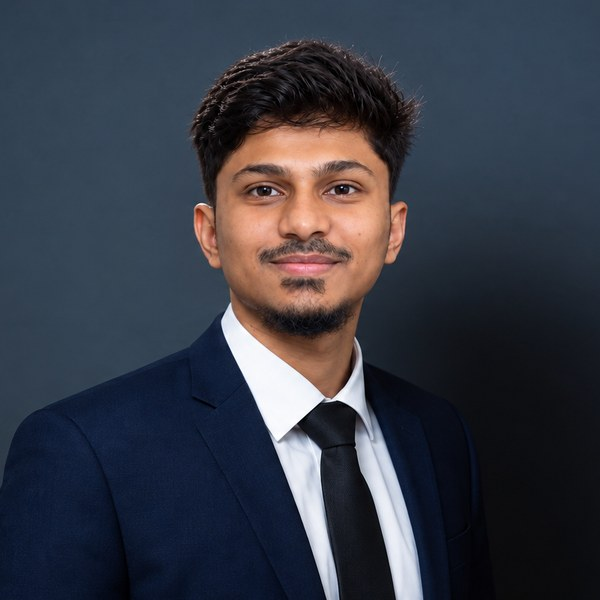
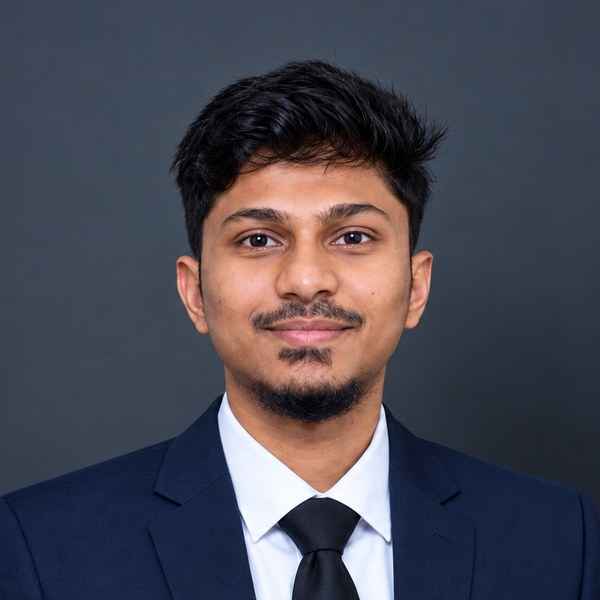
New profile photo; slightly faster background drift
Claude-Session: https://claude.ai/code/session_01EycHoazuajFt61XxVs3uKu

diff --git a/hero-bg.js b/hero-bg.js
@@ -7,6 +7,7 @@
   var ctx = canvas.getContext('2d');
   var reduce = window.matchMedia('(prefers-reduced-motion: reduce)').matches;
   var dpr = Math.min(window.devicePixelRatio || 1, 2);
+  var SPEED = 1.6;   // drift speed multiplier (1 = original pace)
   var W = 0, H = 0, stones = [], sand = [], voids = [], colors = {}, running = false, visible = true, raf = 0;
 
   function hexToRgb(h){
@@ -36,7 +37,7 @@
       pts.push([Math.cos(ang) * rr, Math.sin(ang) * rr * rand(0.7, 1)]);
     }
     return { x: rand(0, W), y: rand(0, H), r: r, pts: pts, rot: rand(0, Math.PI * 2),
-             vr: rand(-0.0012, 0.0012), vx: rand(-0.09, 0.09), vy: rand(-0.06, 0.06),
+             vr: rand(-0.0012, 0.0012) * SPEED, vx: rand(-0.09, 0.09) * SPEED, vy: rand(-0.06, 0.06) * SPEED,
              fill: rand(0.045, 0.1), edge: rand(0.08, 0.16), accent: Math.random() < 0.12 };
   }
   function build(){
@@ -44,8 +45,8 @@
     stones = []; sand = []; voids = [];
     var ns = Math.round(area / 11000), ng = Math.round(area / 1400), nv = Math.round(area / 60000);
     for(var i = 0; i < ns; i++) stones.push(makeStone());
-    for(i = 0; i < ng; i++) sand.push({ x: rand(0, W), y: rand(0, H), r: rand(0.5, 1.6), a: rand(0.08, 0.2), vx: rand(-0.05, 0.05), vy: rand(-0.04, 0.04) });
-    for(i = 0; i < nv; i++) voids.push({ x: rand(0, W), y: rand(0, H), r: rand(2.5, 6), vx: rand(-0.05, 0.05), vy: rand(-0.04, 0.04) });
+    for(i = 0; i < ng; i++) sand.push({ x: rand(0, W), y: rand(0, H), r: rand(0.5, 1.6), a: rand(0.08, 0.2), vx: rand(-0.05, 0.05) * SPEED, vy: rand(-0.04, 0.04) * SPEED });
+    for(i = 0; i < nv; i++) voids.push({ x: rand(0, W), y: rand(0, H), r: rand(2.5, 6), vx: rand(-0.05, 0.05) * SPEED, vy: rand(-0.04, 0.04) * SPEED });
   }
   function resize(){
     var rect = hero.getBoundingClientRect();

diff --git a/index.html b/index.html
@@ -121,7 +121,7 @@
         <div class="identity reveal" style="--i:0">
           <div class="photo-frame">
             <span class="initials" aria-hidden="true">MSK</span>
-            <img class="photo-img" src="Md_Shakib_Khan_Photo.jpg" width="150" height="150" alt="Md. Shakib Khan" onerror="this.remove()">
+            <img class="photo-img" src="Md_Shakib_Khan_Photo.jpg?v=2" width="150" height="150" alt="Md. Shakib Khan" onerror="this.remove()">
             <span class="photo-badge" aria-hidden="true">
               <svg viewBox="0 0 24 24" fill="none" stroke="currentColor" stroke-width="1.8" stroke-linecap="round" stroke-linejoin="round"><path d="M9 2h6"/><path d="M10 2v6l-6 10c-1 2 .5 4 2.5 4h11c2 0 3.5-2 2.5-4l-6-10V2"/><line x1="7.5" y1="14" x2="16.5" y2="14"/></svg>
             </span>
@@ -162,7 +162,7 @@
       </div>
     </div>
   </section>
-  <script src="hero-bg.js?v=2" defer></script>
+  <script src="hero-bg.js?v=3" defer></script>
 
   <!-- ============ RESEARCH INTERESTS ============ -->
   <section class="interests-band" id="interests" aria-labelledby="interests-h">
